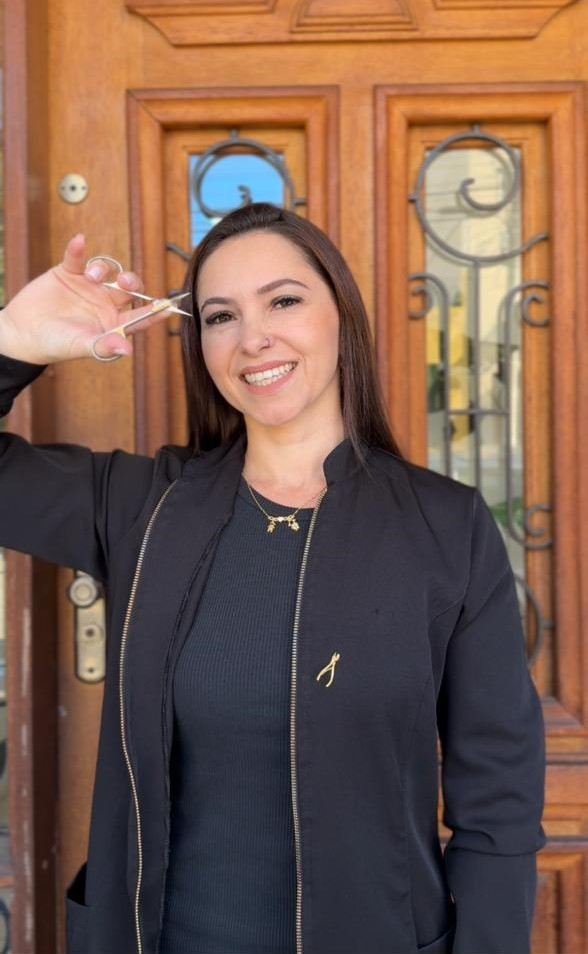
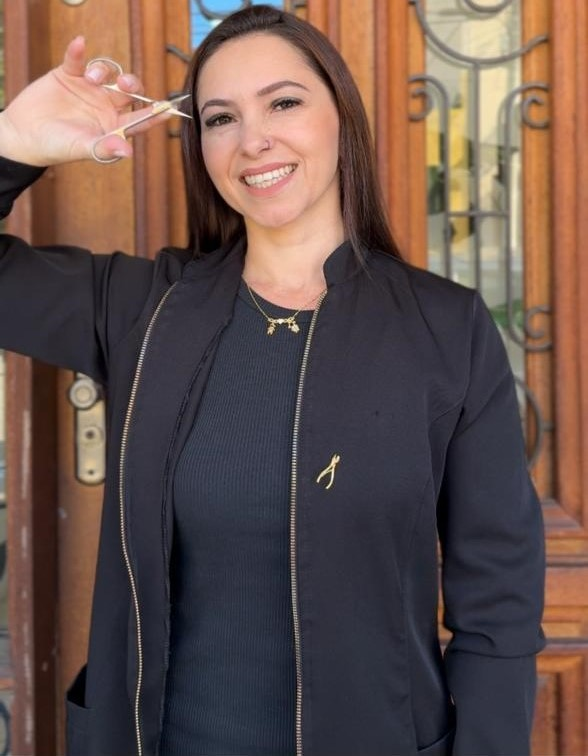
.

diff --git a/html/principal.html b/html/principal.html
@@ -55,16 +55,16 @@
     <main>
         <section id="hero">
             <div id="titulos-hero">
-                <p id="aprensentação-hero">FORMAÇÃO PROFISSIONAL EM UNHAS</p>
+                <p id="aprensentacao-hero">FORMAÇÃO PROFISSIONAL EM UNHAS</p>
                 <h1>Transforme sua paixão por unhas em uma profissão.</h1>
-                <p id="descrição-hero">
+                <p id="descricao-hero">
                     Aprenda técnicas profissionais de manicure com acompanhamento individual, prática e orientação de quem tem experiência na área. 
                 </p>
                 <p id="botao-hero"><a href="#cursos">QUERO CONHECER OS CURSOS</a></p>
             </div>
             <div id="img-hero">
                 <img id="img-heroM" src="../images/profissional-3.jpeg" alt="Clariana em seu ambiente de trabalho">
-                <img id="img-heroD" src="../images/profissional-1.jpeg" alt="Clariana em um retrato profissional">
+                <img id="img-heroD" src="../images/profissional-2.jpeg" alt="Clariana em um retrato profissional">
             </div>
         </section>
         <section id="cursos">

diff --git a/style/all.css b/style/all.css
@@ -171,7 +171,7 @@ div#titulos-hero {
     padding: 40px 20px;
 }
 
-div#titulos-hero > p#aprensentação-hero {
+div#titulos-hero > p#aprensentacao-hero {
     font-weight: 500;
     font-size: larger;
     text-align: center;
@@ -188,7 +188,7 @@ div#titulos-hero > h1 {
     margin-bottom: 40px;
 }
 
-div#titulos-hero > p#descrição-hero {
+div#titulos-hero > p#descricao-hero {
     text-align: center;
     padding: 0px 10px;
     font-size: 17px;
@@ -202,19 +202,21 @@ div#titulos-hero > p#botao-hero {
     background-color: var(--ameixa);
     color: white;
     width: 100%;
-    height: 40px;
+    height: 44px;
     border: 1px solid black;
-    text-align: center;
     
-    
+    display: flex;
+    justify-content: center;
+    align-items: center;
 }
 
 div#titulos-hero > p#botao-hero > a {
+    display: block;
     color: white;
     text-decoration: none;
     font-weight: 400;
-    margin: 5px;
-    padding: 10px 0px;
+    padding: 10px;
+    text-align: center;
 }
 
 /*          IMG HERO           */
